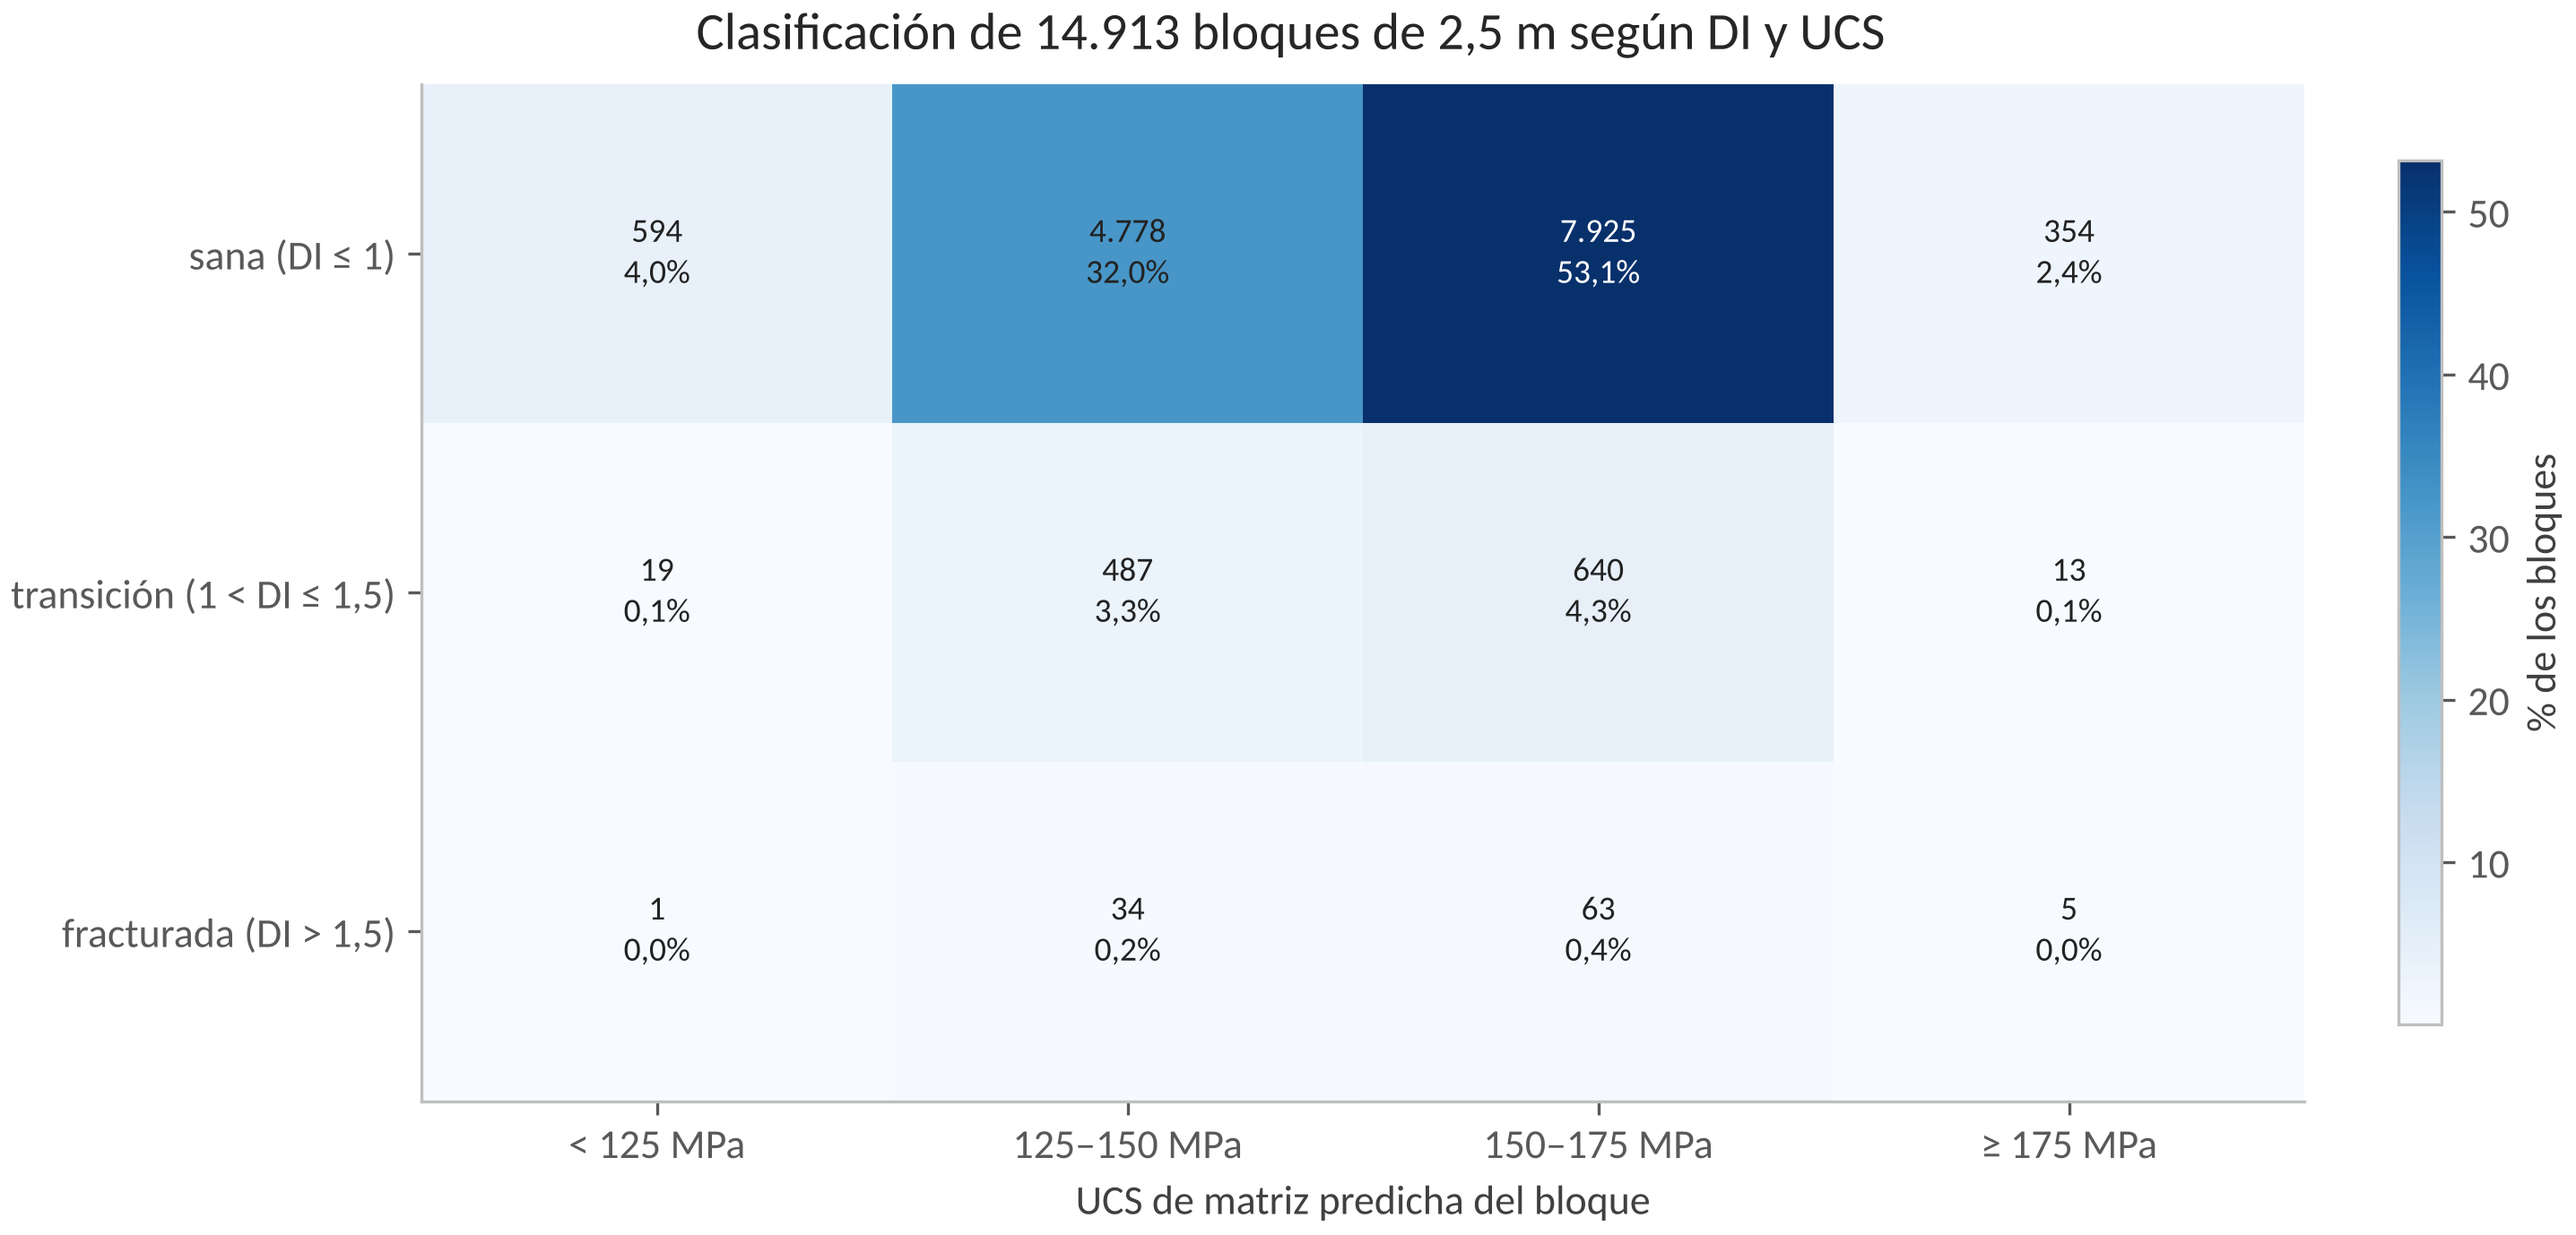
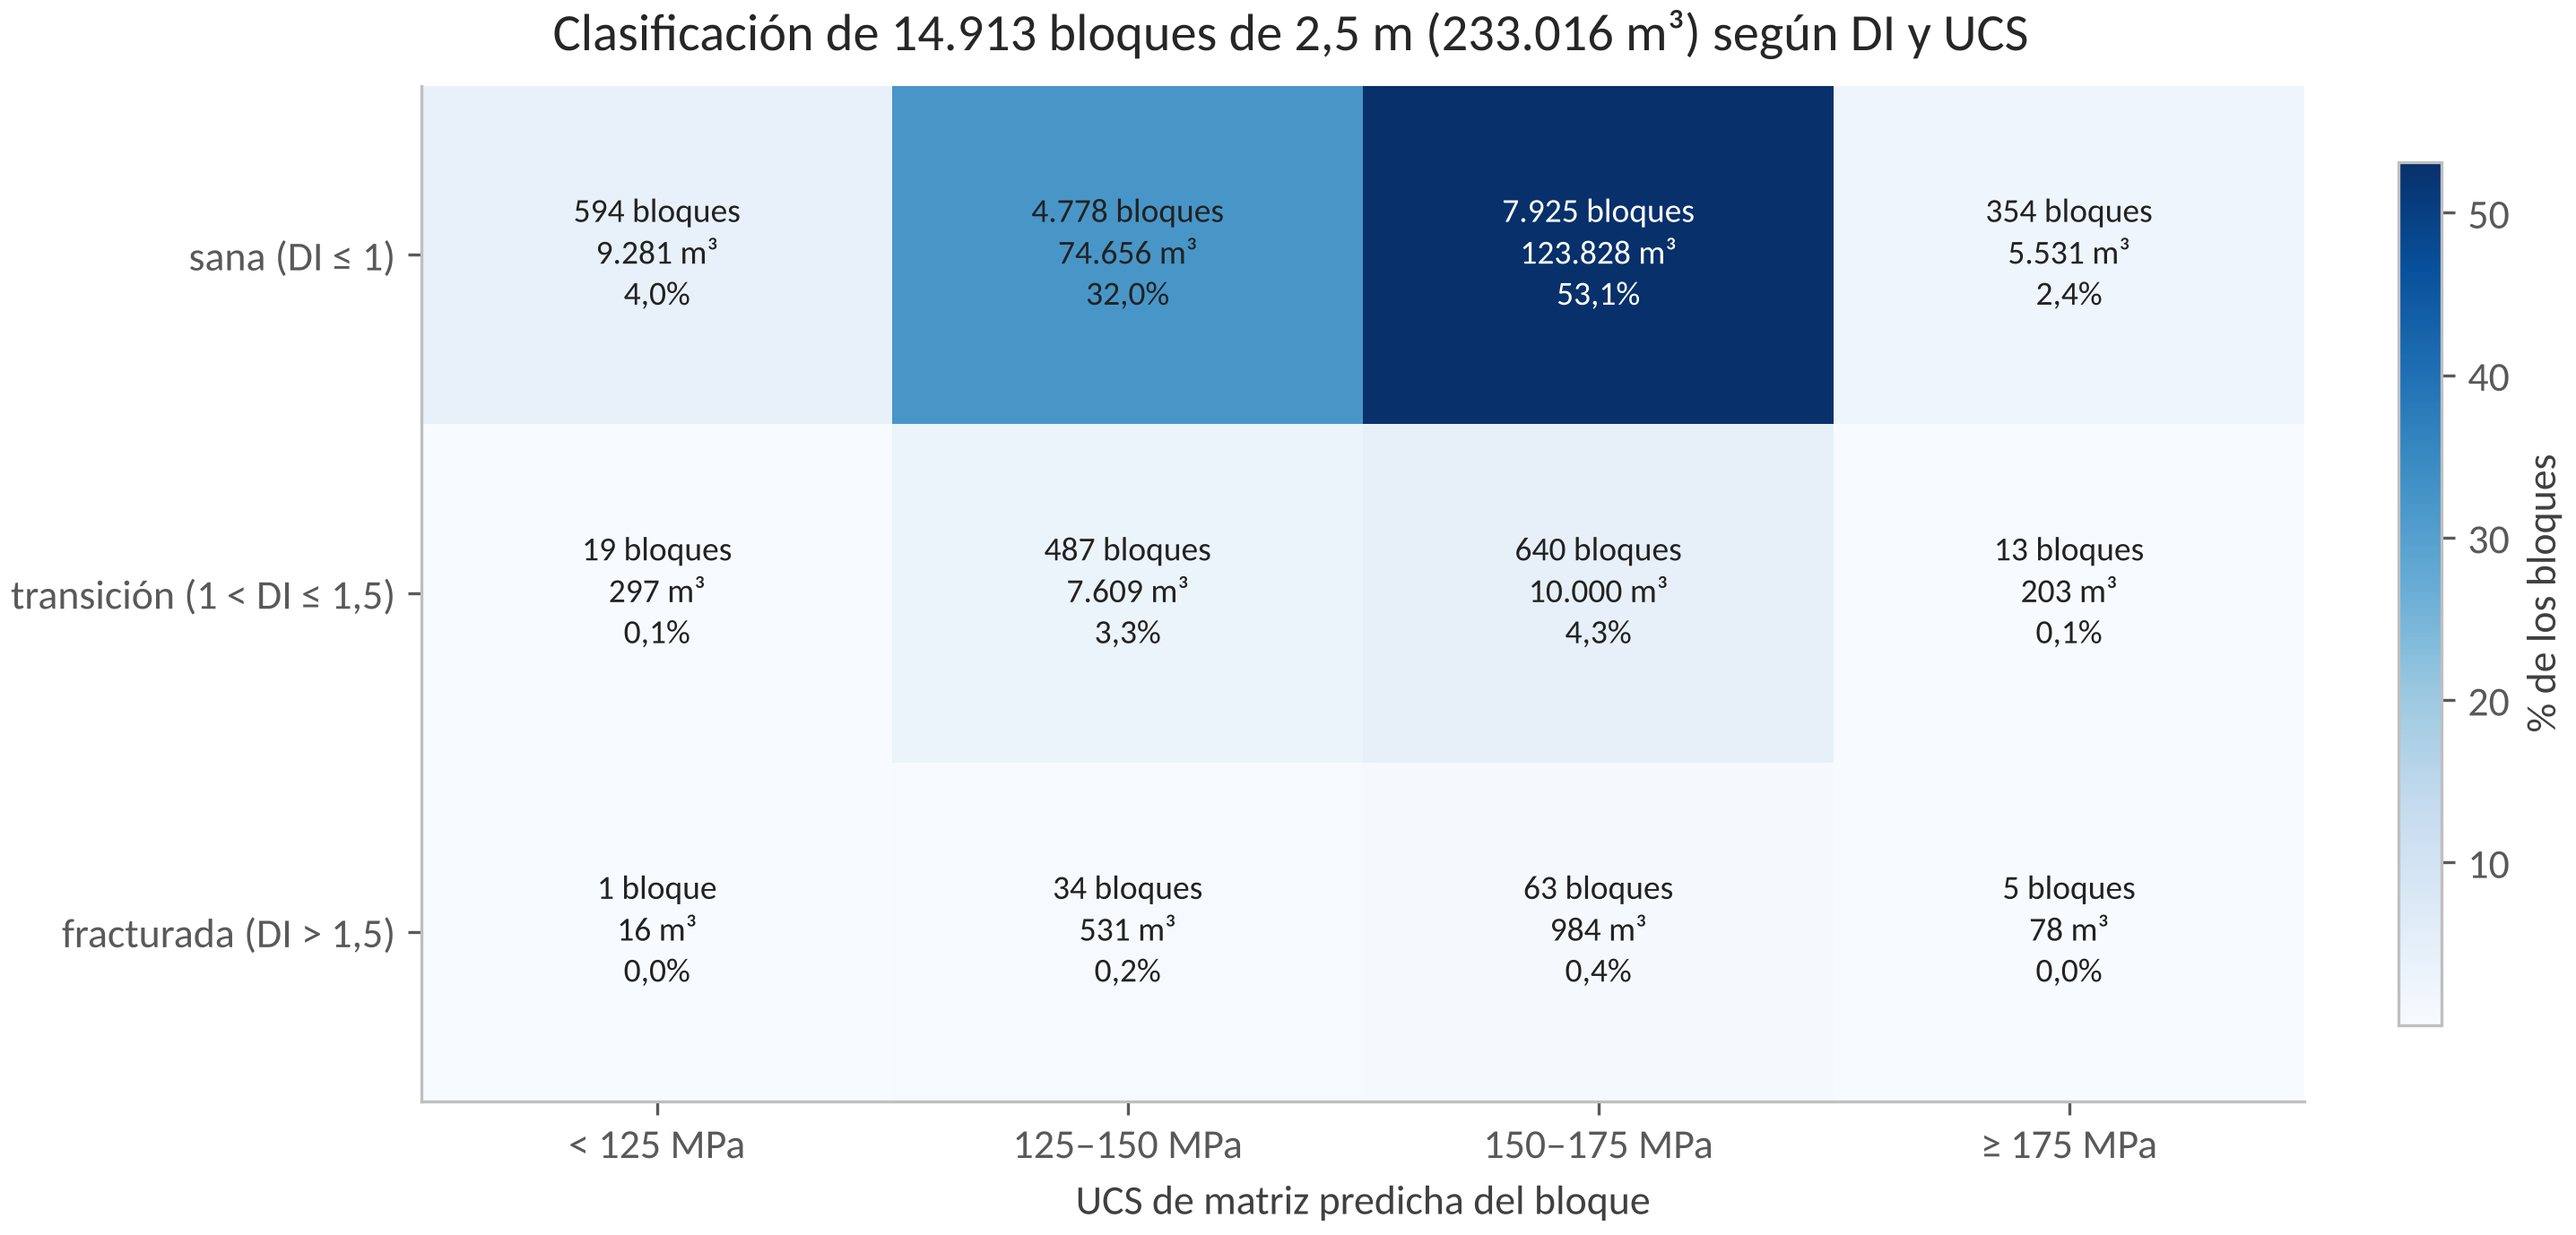
Matriz DI x UCS de bloques tambien en m3 (figura y hoja Excel)
Claude-Session: https://claude.ai/code/session_01MT9AkNnHr1e9AMWji6YncB

diff --git a/memoria_final/final/tablas_excel.py b/memoria_final/final/tablas_excel.py
@@ -366,6 +366,26 @@ _, a, b = tabla(ws, ["Estadístico", "Valor"], [["Volumen [m³]", BR["volumen_m3
                                      ["UCS P10 [MPa]", BR["ucs_p10"]], ["UCS P90 [MPa]", BR["ucs_p90"]]],
       fmt=[None, "#,##0.0"])
 ws.cell(a + 1, 2).number_format = "0.0%"
+BJ = json.load(open(os.path.join(os.path.dirname(SRC), "bloques.json")))
+CORTES = [(0, 125, "< 125 MPa"), (125, 150, "125–150 MPa"), (150, 175, "150–175 MPa"), (175, 451, "≥ 175 MPa")]
+CDI = ["sana (DI ≤ 1)", "transición (1 < DI ≤ 1,5)", "fracturada (DI > 1,5)"]
+MM = [[0] * len(CORTES) for _ in CDI]
+for d_, u_ in zip(BJ["di"], BJ["ucs"]):
+    if d_ is None or u_ is None: continue
+    MM[0 if d_ <= 1.0 else 1 if d_ <= 1.5 else 2][next(k for k, (lo_, hi_, _) in enumerate(CORTES) if lo_ <= u_ < hi_)] += 1
+VOL = B["bloque_m"] ** 3
+for et_, fac, fmt_ in (("bloques", 1, "#,##0"), ("volumen [m³]", VOL, "#,##0")):
+    titulo(ws, f"Clasificación DI × UCS de matriz — {et_}")
+    _, a, b = tabla(ws, ["Clase de DI"] + [c[2] for c in CORTES] + ["Total"],
+                    [[CDI[i]] + [MM[i][j] * fac for j in range(len(CORTES))] + [None] for i in range(len(CDI))],
+                    fmt=[None] + [fmt_] * (len(CORTES) + 1))
+    for i in range(a, b + 1):
+        ws.cell(i, len(CORTES) + 2, f"=SUM(B{i}:{col(len(CORTES) + 1)}{i})").number_format = fmt_
+    ws.cell(b + 1, 1, "Total").font = Font(name=FUENTE, bold=True)
+    for j in range(2, len(CORTES) + 3):
+        ws.cell(b + 1, j, f"=SUM({col(j)}{a}:{col(j)}{b})").number_format = fmt_
+    ws._fila = b + 3
+nota(ws, f"Bloque de {str(B['bloque_m']).replace('.', ',')} m = {VOL:g} m³. Clases de UCS cada 25 MPa: todos los bloques caen en la banda ISRM R5.")
 titulo(ws, "Bloques por clase de DI")
 tabla(ws, ["Clase de DI", "Banda ISRM de UCS", "Bloques"], [[t["di"], t["banda"].replace("_", " "), t["n"]] for t in B["tabla"]],
       fmt=[None, None, "#,##0"])

diff --git a/memoria_final/final/final_figs.py b/memoria_final/final/final_figs.py
@@ -606,10 +606,10 @@ if B.get("status") == "ok" and B.get("seccion", {}).get("x"):
     ax.set_yticks(range(3)); ax.set_yticklabels(cdi)
     for i in range(3):
         for j in range(len(CORTES)):
-            ax.text(j, i, f"{mil(M[i, j])}\n{dec(100 * M[i, j] / N, 1)}%", ha="center", va="center", fontsize=9,
+            ax.text(j, i, f"{mil(M[i, j])} bloque{'' if M[i, j] == 1 else 's'}\n{mil(round(M[i, j] * B['bloque_m'] ** 3))} m³\n{dec(100 * M[i, j] / N, 1)}%", ha="center", va="center", fontsize=9,
                     color="white" if M[i, j] / N > 0.35 else "#222")
     fig.colorbar(im, ax=ax, shrink=0.85, label="% de los bloques")
-    fig.suptitle(f"Clasificación de {mil(N)} bloques de {dec(B['bloque_m'], 1)} m según DI y UCS")
+    fig.suptitle(f"Clasificación de {mil(N)} bloques de {dec(B['bloque_m'], 1)} m ({mil(round(N * B['bloque_m'] ** 3))} m³) según DI y UCS")
     pie(fig, "Clases de UCS cada 25 MPa (todos los bloques caen en la banda ISRM R5, 100–250 MPa). " + PIE_CFG, y=-0.05); guardar(fig, "F6_12_clasificacion_DI_UCS.png")
 
 # ── Tabla 6.3 dominios y 6.4 ranking ────────────────────────────────────────
